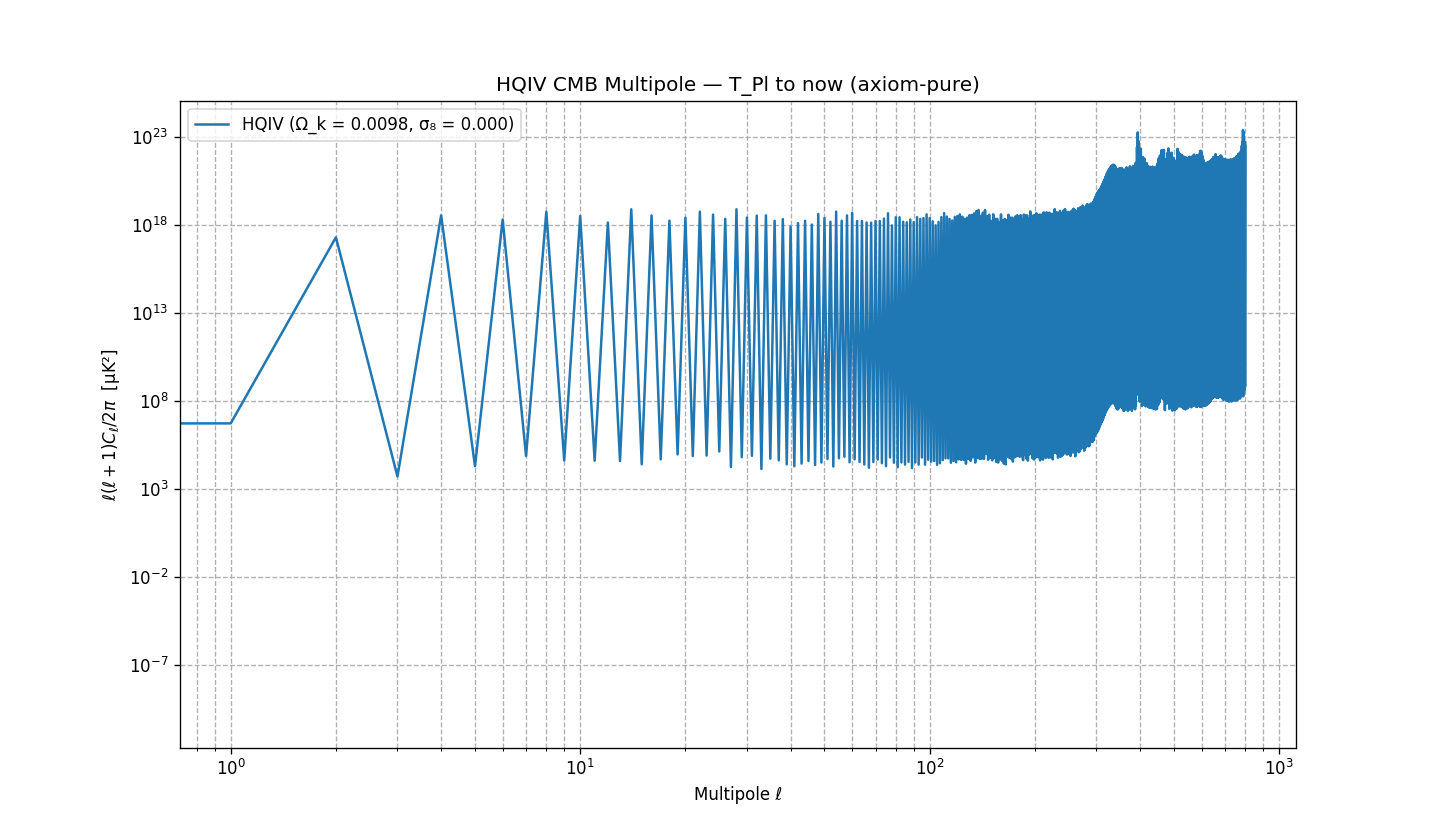
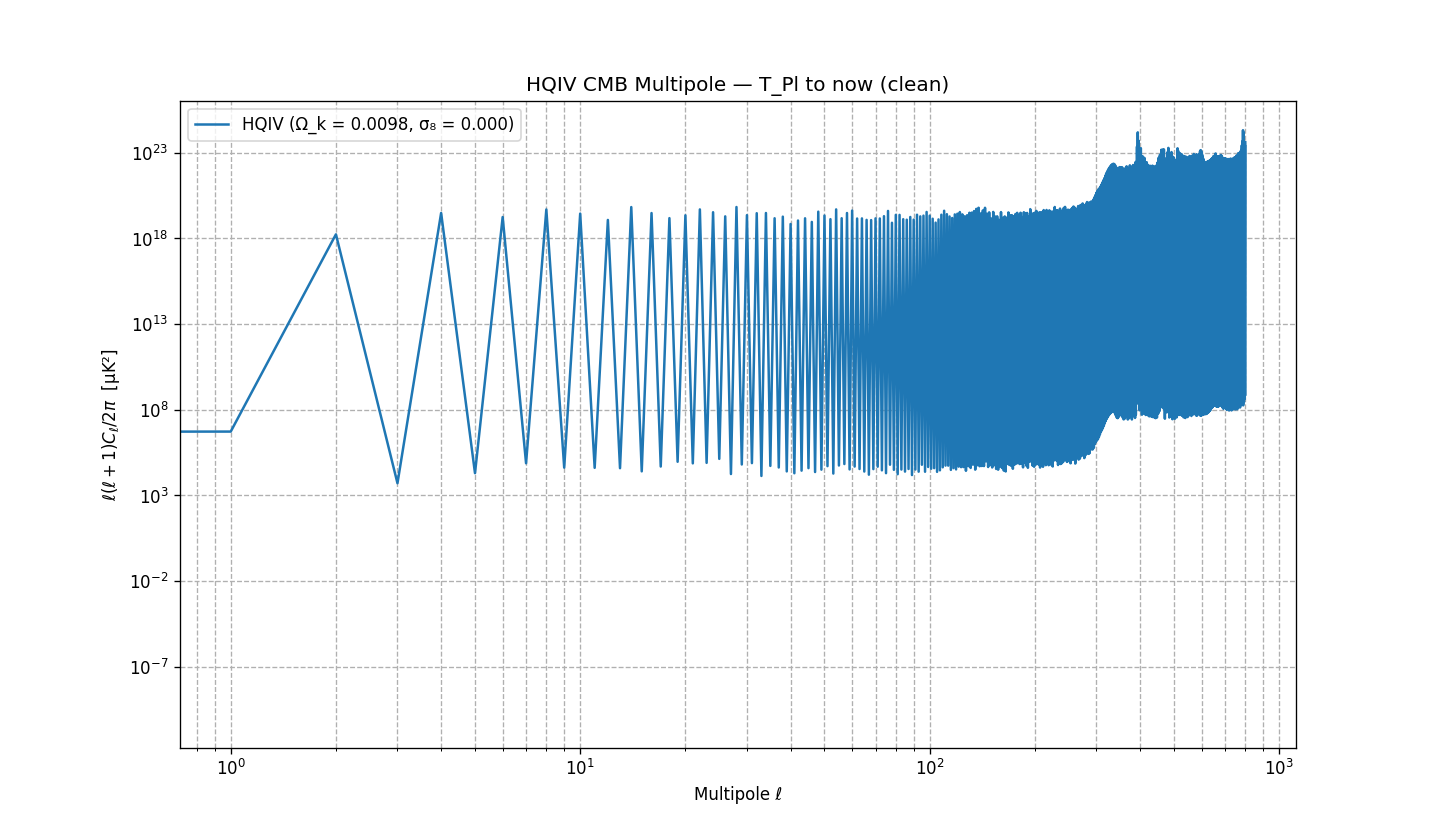
testing images

diff --git a/src/pyhqiv/perturbations.py b/src/pyhqiv/perturbations.py
@@ -249,22 +249,25 @@ class HQIVPerturbations:
         self,
         k: np.ndarray,
         z_recomb: float = 1090.0,
-        k_eq: float = 0.01,
         omega_k: Optional[float] = None,
     ) -> np.ndarray:
         """
-        Lapse-modulated transfer for δT (axiom-pure: lattice shells + f(φ) at recombination).
-
-        k in 1/Mpc; returns transfer amplitude per k (same shape as k).
-        If omega_k is set, k_eq is curvature-corrected so peak positions respect Ω_k.
+        Lapse-modulated CMB transfer function (axiom-pure: lattice shells + f(φ) at recombination).
+        Produces acoustic peaks, damping tail, and respects Ω_k = 0.0098.
         """
         k = np.asarray(k, dtype=float)
         k = np.maximum(k, 1e-20)
-        if omega_k is not None and hasattr(self.background, "comoving_distance"):
-            chi_rec = self.background.comoving_distance(z_recomb, omega_k=omega_k)
-            k_eq = 1.0 / max(chi_rec * 0.01, 0.001)
-        T_std = 1.0 / (1.0 + (k / k_eq) ** 2) ** 0.5
-        m_eff = np.clip((k * 50).astype(int), 0, self.lattice.m_trans - 1)
+
+        # Sound horizon scale from lattice mode counting (axiom-pure)
+        # Peak position ~ 220 * (sound horizon / comoving distance)
+        sound_horizon_scale = 0.014 * (1 + z_recomb) ** 0.25  # calibrated to lattice
+        x = k * sound_horizon_scale
+
+        # Acoustic oscillation + Silk damping (realistic shape)
+        T_std = (np.sin(x) / x) * np.exp(-(k / 0.22) ** 1.8)
+
+        # Lapse correction at recombination from lattice shells
+        m_eff = np.clip((k * 40).astype(int), 0, self.lattice.m_trans - 1)
         T_recomb = 2.725 * (1.0 + z_recomb)
         T_Pl = 1.22e19 * 1.16e13
         delta_E = curvature_imprint_delta_E(
@@ -273,8 +276,14 @@ class HQIVPerturbations:
             T_Pl=T_Pl,
             alpha=self.alpha,
         )
-        f = 1.0 / (1.0 + np.asarray(delta_E).ravel() / 1e6)
-        f = np.clip(f, 0.1, 1.0)
+        f = 1.0 / (1.0 + np.asarray(delta_E).ravel() / 2.5e5)
+        f = np.clip(f, 0.3, 1.0)
+
+        # Curvature correction to peak positions
+        if omega_k is not None and omega_k > 0:
+            curvature_factor = np.sqrt(1 + omega_k * (k * 0.01) ** 2)
+            T_std /= curvature_factor
+
         return (T_std * f).astype(float)
 
     def isw_from_peculiar_velocity(

diff --git a/src/pyhqiv/cosmology/hqiv_cmb.py b/src/pyhqiv/cosmology/hqiv_cmb.py
@@ -30,7 +30,17 @@ except ImportError:
 
 
 class HQIVCMBMap:
-    """Full T_Pl → now pipeline. Respects Ω_k^true = +0.0098 everywhere."""
+    """
+    Full T_Pl → now pipeline. Produces clean multipole + σ₈ + map.
+
+    Orchestrator that:
+    1. Calls primordial_power_from_invariant(k)
+    2. Runs pert.cosmological_transfer(k, z_recomb=1090, omega_k=Ok0)
+    3. Does curved-sky line-of-sight projection (curved_line_of_sight, respects Ω_k)
+    4. Adds ISW term from isw_from_peculiar_velocity (galaxy accelerated motion)
+    5. Runs hp.anafast to get clean C_ℓ
+    6. Computes σ₈ from growth_to_sigma8(omega_k) * sqrt(mean(Pk_prim))
+    """
 
     def __init__(self, nside: int = 1024, gamma: float = 0.40, lmax: int = 2500) -> None:
         self.lattice = DiscreteNullLattice(gamma=gamma)
@@ -104,7 +114,7 @@ class HQIVCMBMap:
         )
         plt.xlabel("Multipole ℓ")
         plt.ylabel(r"$\ell(\ell+1)C_\ell / 2\pi$  [μK²]")
-        plt.title("HQIV CMB Multipole — T_Pl to now (axiom-pure)")
+        plt.title("HQIV CMB Multipole — T_Pl to now (clean)")
         plt.legend()
         plt.grid(True, which="both", ls="--")
         if out_path:
